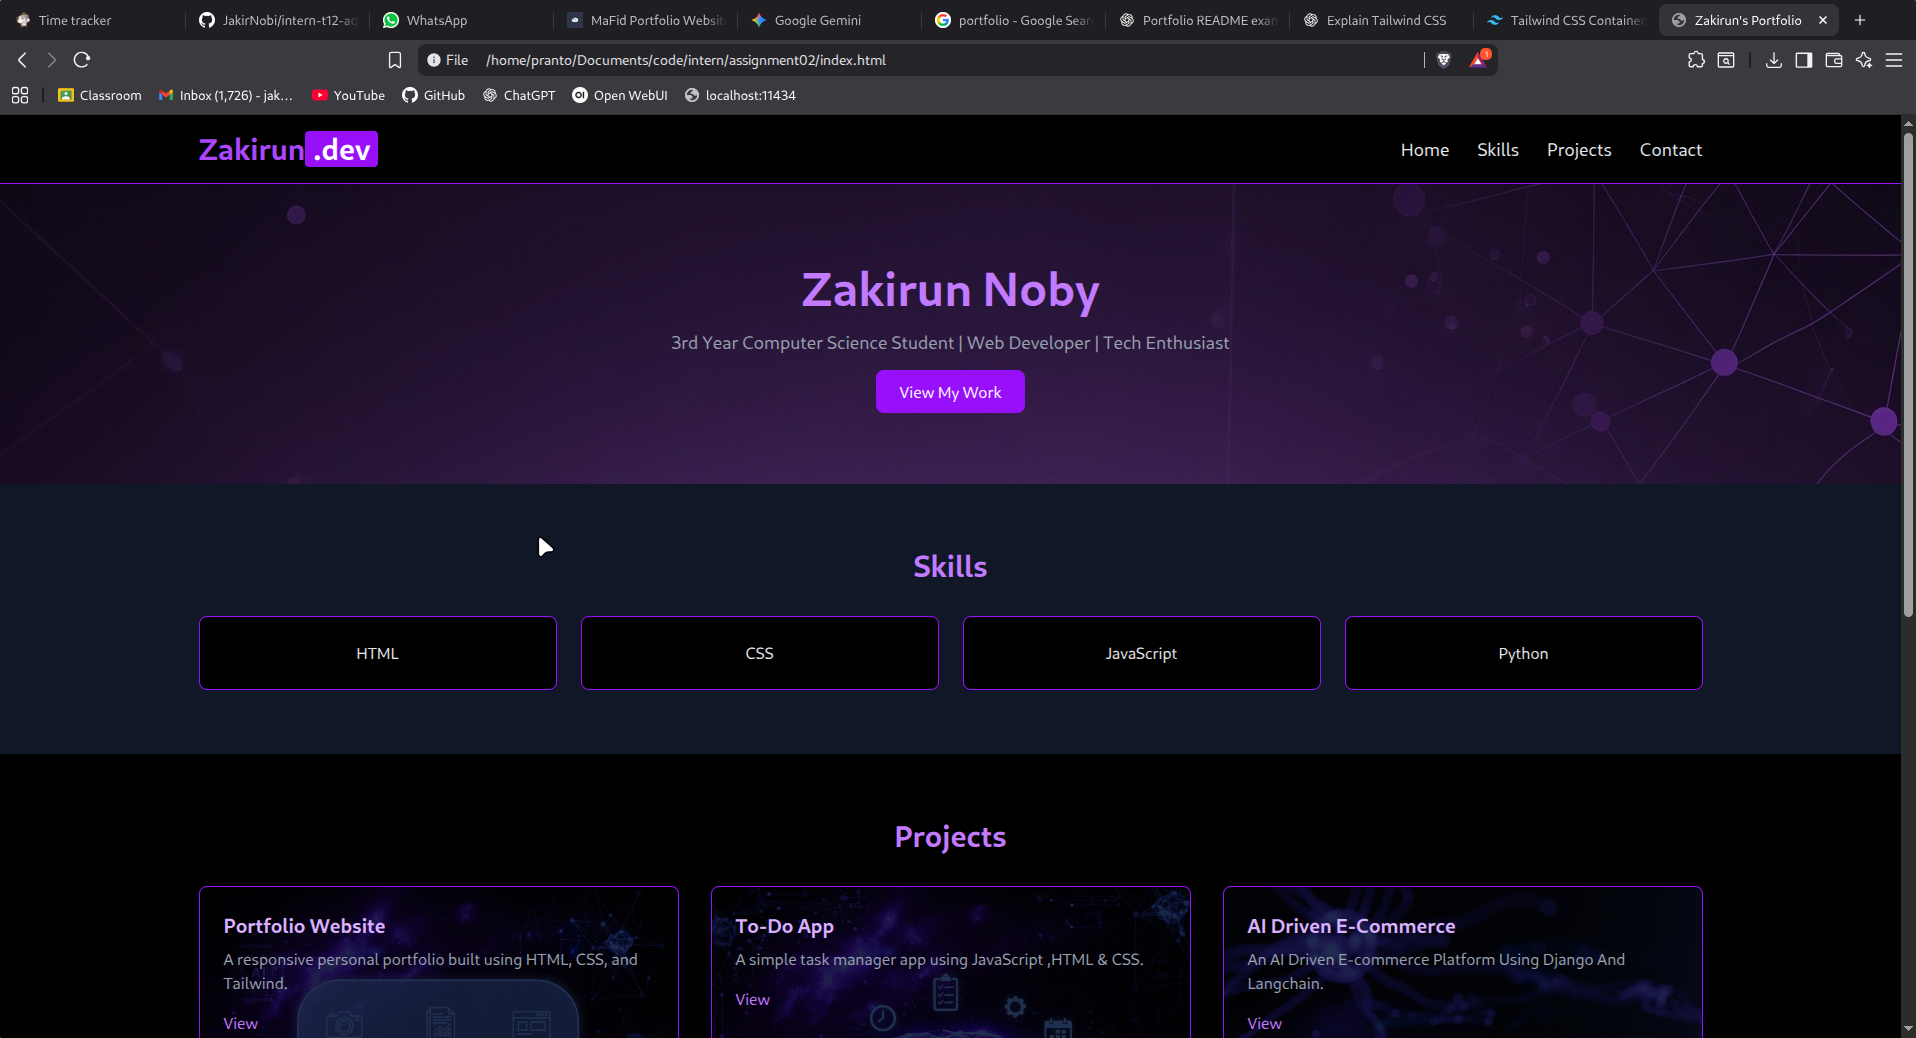
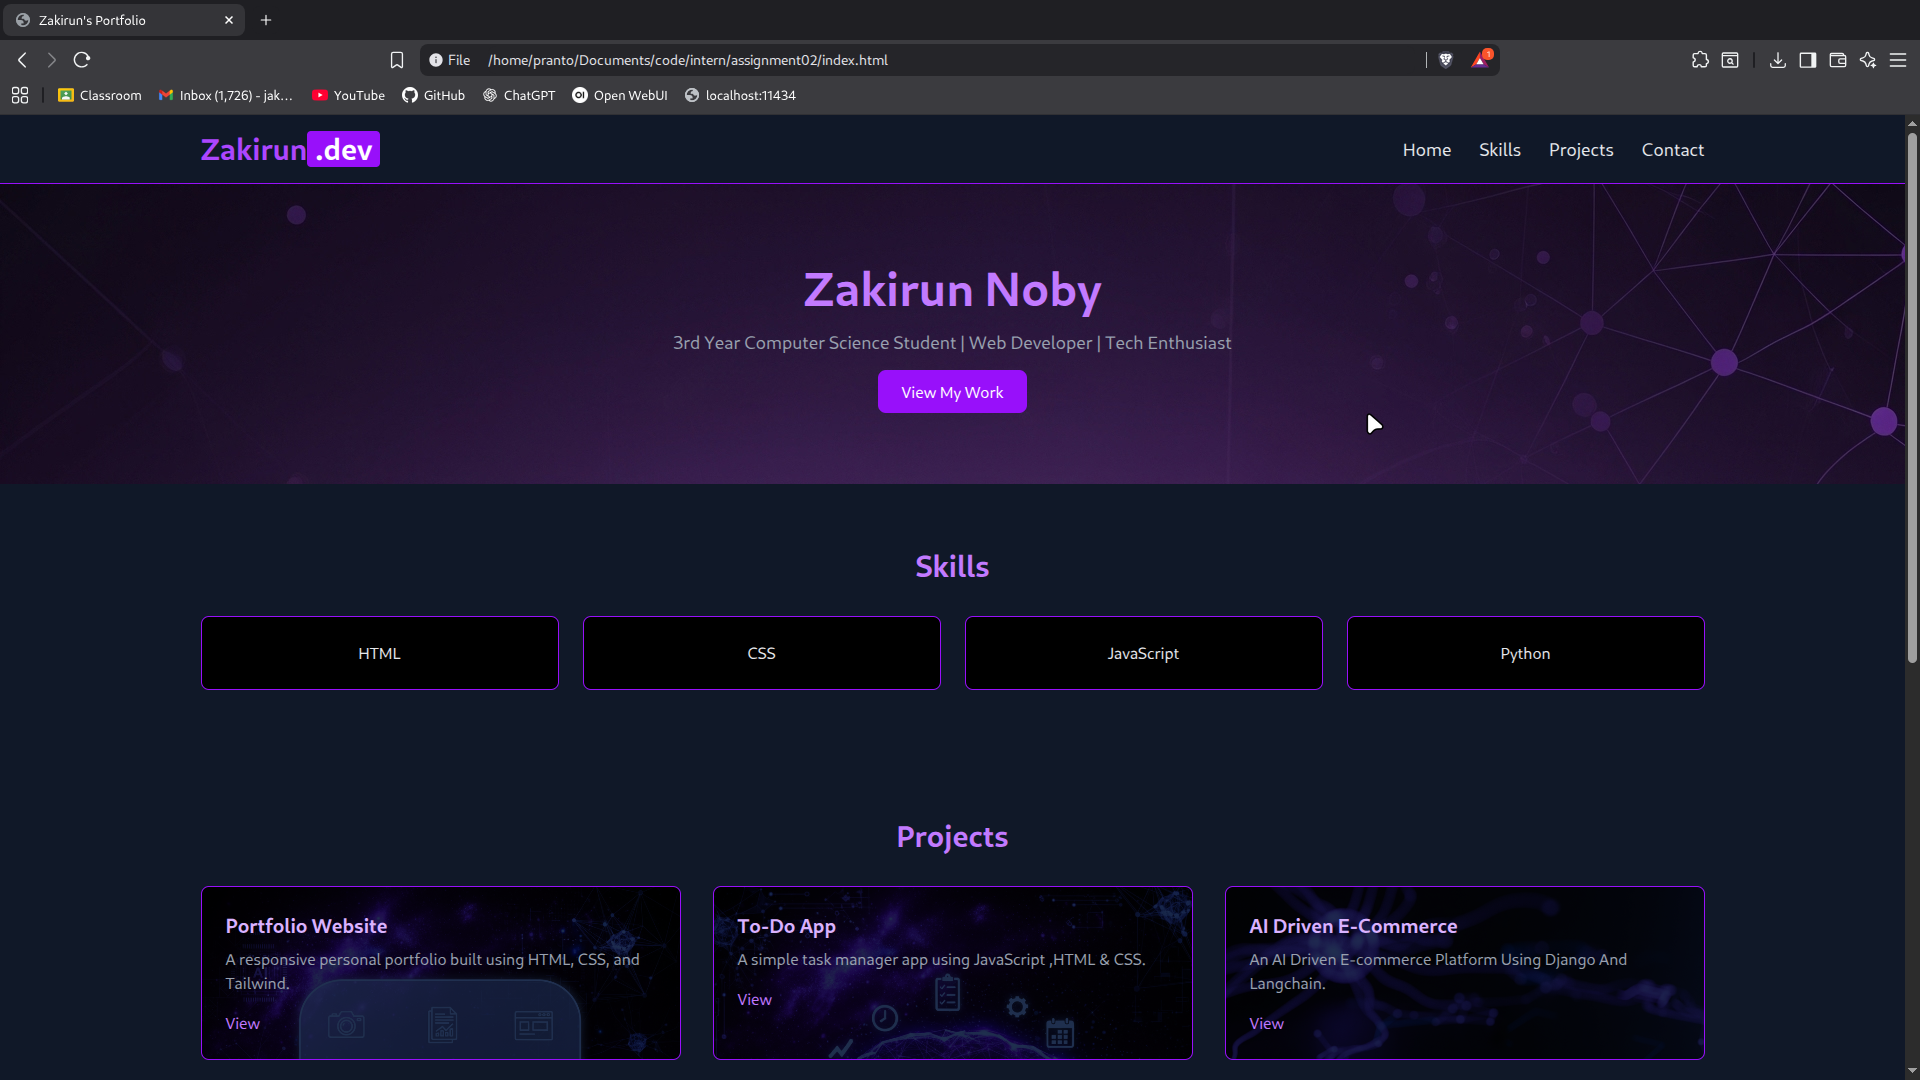
misc-theme change

diff --git a/index.html b/index.html
@@ -9,7 +9,7 @@
   </head>
   <body class="min-h-screen font-sans bg-black text-gray-200">
     <!-- Header -->
-    <header class="bg-black shadow-sm border-b border-purple-600">
+    <header class="bg-gray-900 shadow-sm border-b border-purple-600">
       <div
         class="container mx-auto flex items-center justify-between px-4 py-4"
       >
@@ -29,7 +29,7 @@
 
     <!-- Hero Section -->
     <section
-      class="bg-black py-20 text-center"
+      class="bg-gray-900 py-20 text-center"
       style="background-image: url(&quot;images/hero_img.png&quot;)"
     >
       <div class="container mx-auto">
@@ -80,7 +80,7 @@
     </section>
 
     <!-- Projects Section -->
-    <section id="projects" class="bg-black py-16">
+    <section id="projects" class="bg-gray-900 py-16">
       <div class="container mx-auto px-4">
         <h2 class="text-3xl font-semibold mb-8 text-center text-purple-400">
           Projects

diff --git a/readme.md b/readme.md
@@ -2,7 +2,7 @@
 # 🌐 Zakirun's Portfolio
 
 This is my **personal portfolio website** for showcasing skills, projects, and contact details.
-It has been built using **HTML, CSS, and TailwindCSS** with a modern **purple and black theme**.
+It has been built using **HTML, CSS, and TailwindCSS** with a modern **purple black & gray theme**.
 
 ---
 
@@ -13,7 +13,7 @@ It has been built using **HTML, CSS, and TailwindCSS** with a modern **purple an
 * **Skills Section** – Displays technical skills with hover animations.
 * **Projects Section** – Showcases projects with background images and details.
 * **Contact Section** – Simple form to send a message.
-* **Minimal & Clean UI** – Purple and black theme with hover transitions.
+* **Minimal & Clean UI** – Purple black & gray theme with hover transitions.
 
 ---
 
